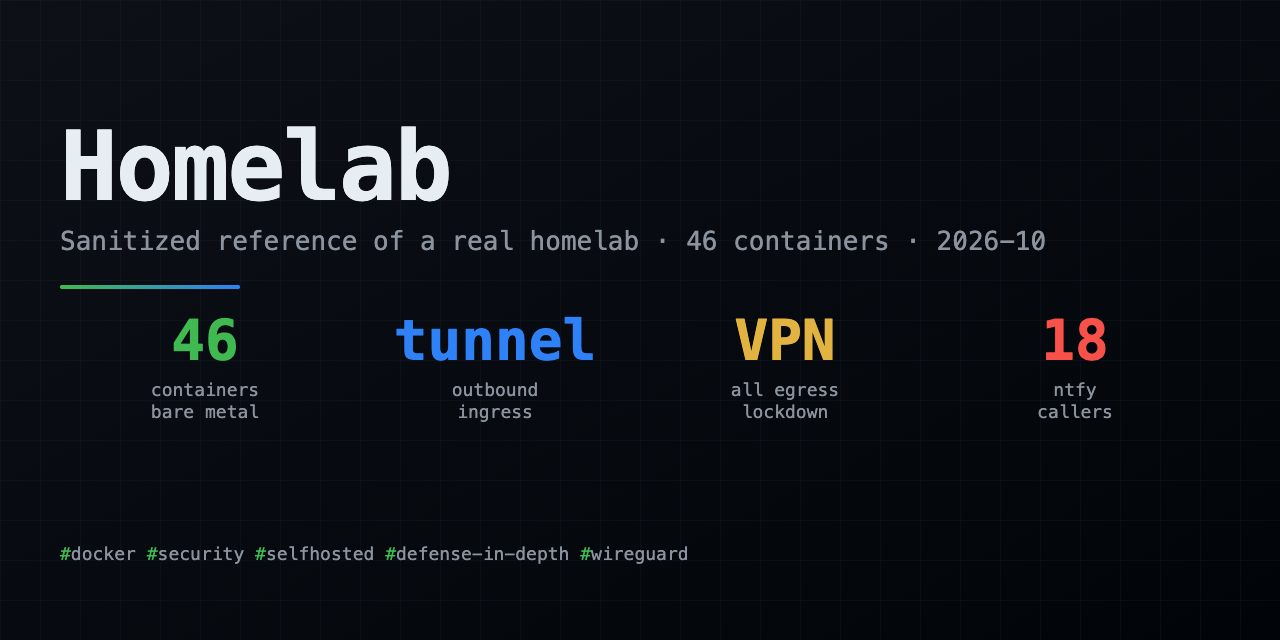
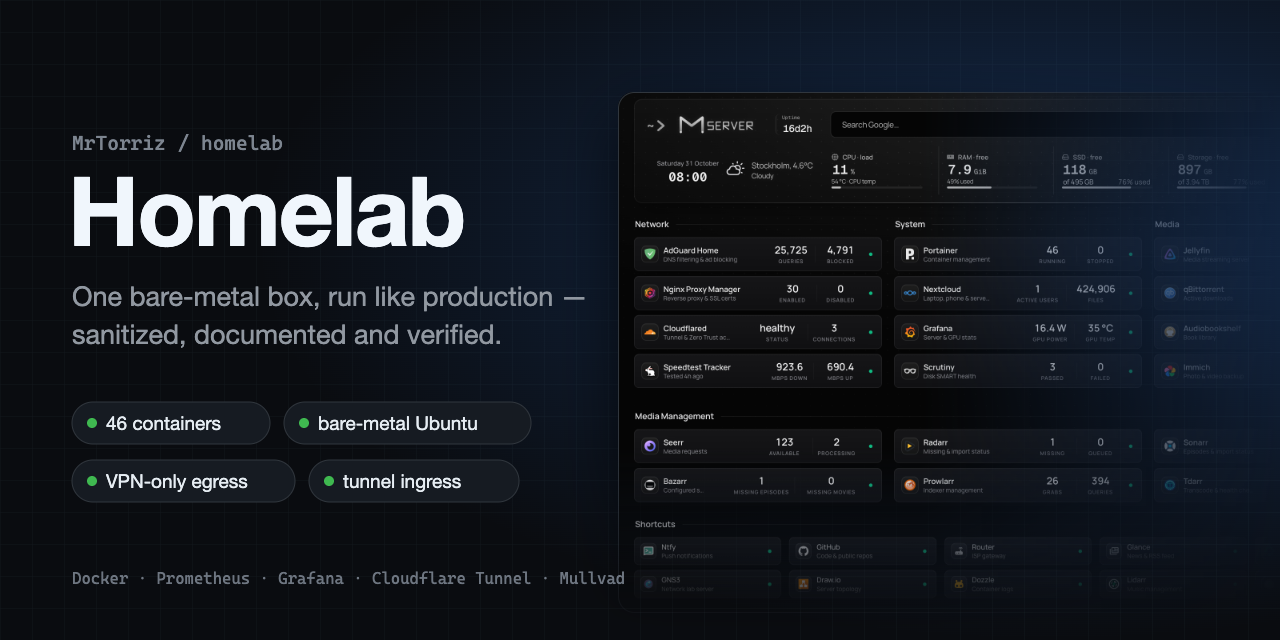
docs(img): redesign the social preview around the live dashboard

diff --git a/README.md b/README.md
@@ -122,7 +122,7 @@ See the full [service catalogue](docker/README.md#service-catalogue) and [observ
 └── .github/workflows/   # CI: shellcheck, yamllint, markdownlint, gitleaks, compose validation, link + fact checks
 ```
 
-The repository's social preview is generated from [`docs/img/social-preview.svg`](docs/img/social-preview.svg) (rendered to [`social-preview.png`](docs/img/social-preview.png) with `rsvg-convert`); `docs/img/architecture.svg` is hand-edited in the same style.
+The repository's social preview is drawn in [`docs/img/social-preview.svg`](docs/img/social-preview.svg), which frames the Homepage capture, and rendered to [`social-preview.png`](docs/img/social-preview.png) at 1280 × 640; `docs/img/architecture.svg` is hand-edited.
 
 ## Reusing pieces
 
